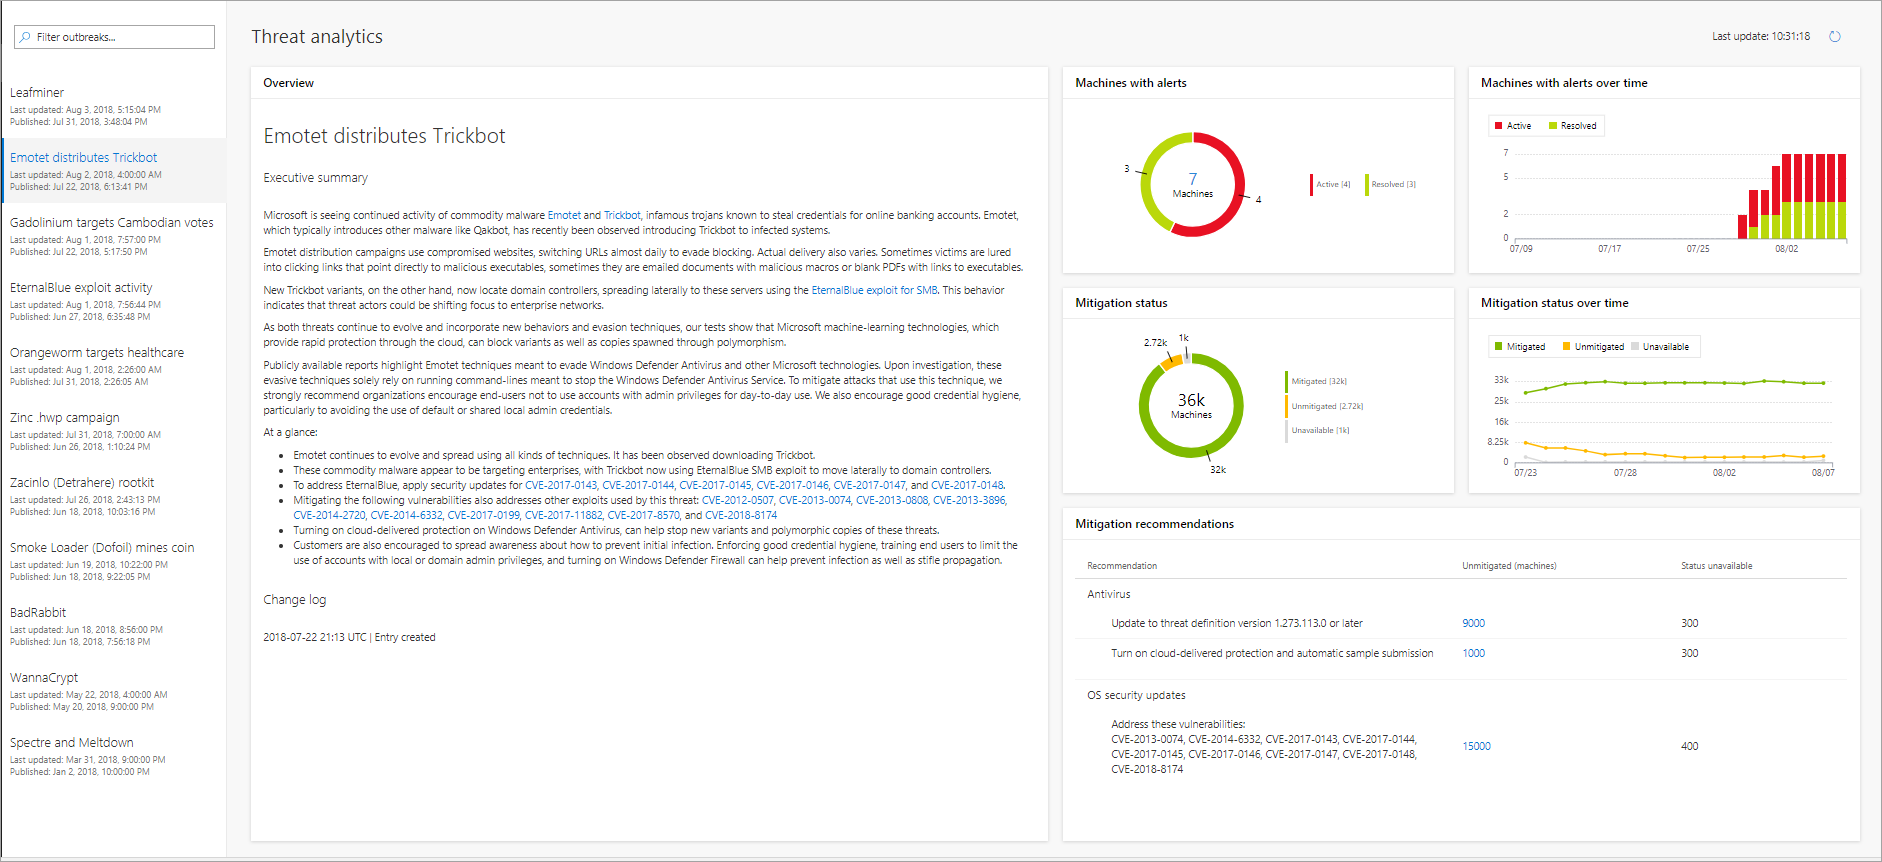
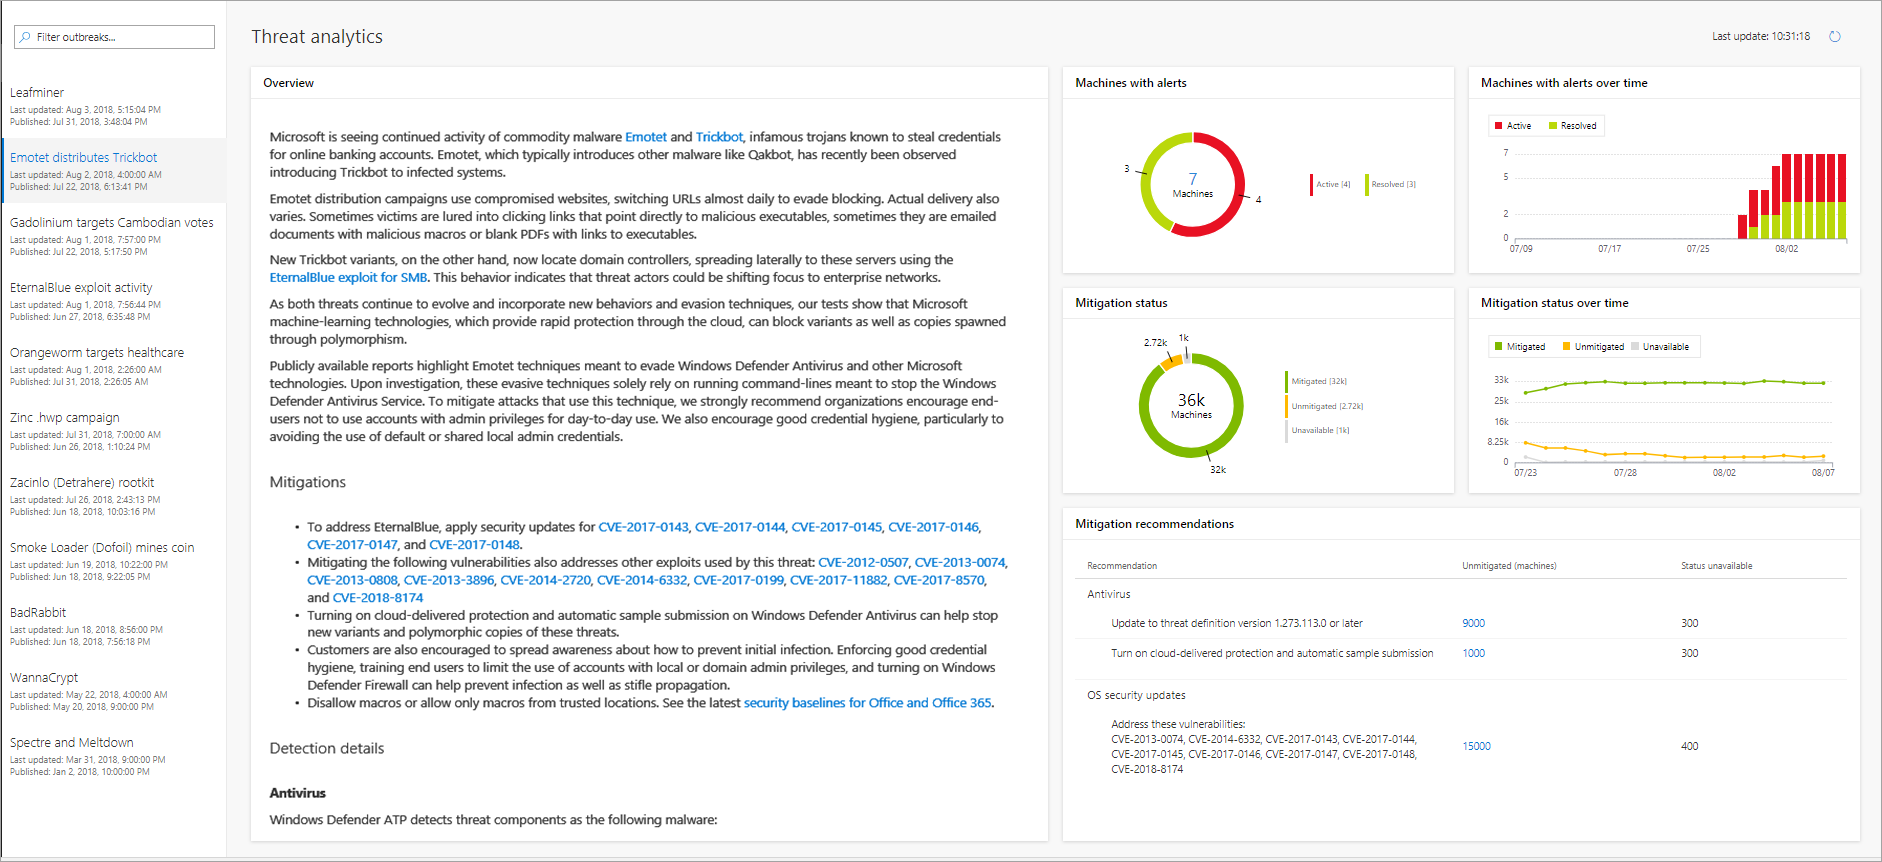
update image

Changed region(s): [[0.1233, 0.1508, 0.5547, 0.8747], [0.1233, 0.9049, 0.3698, 0.9652]]

diff --git a/windows/security/threat-protection/windows-defender-atp/threat-analytics.md b/windows/security/threat-protection/windows-defender-atp/threat-analytics.md
@@ -37,7 +37,7 @@ The dashboard shows the impact in your organization through the following tiles:
 - Mitigation status - shows the current distinct number of machines that have been mitigated, unmitigated, and unavailable
 - Mitigation status over time - shows the distinct number of machines that have been mitigated, unmitigated, and unavailable over time
 
-![Image of a threat analytics report](images/threat-analytics-report.png)
+![Image of a threat analytics report](images/ta.png)
 
 ## Organizational impact
 You can assess the organizational impact of a threat using the Machines with alerts and Machines with alerts over time tiles.
